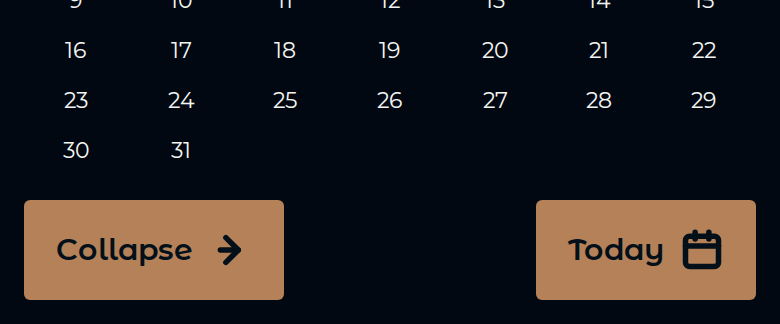
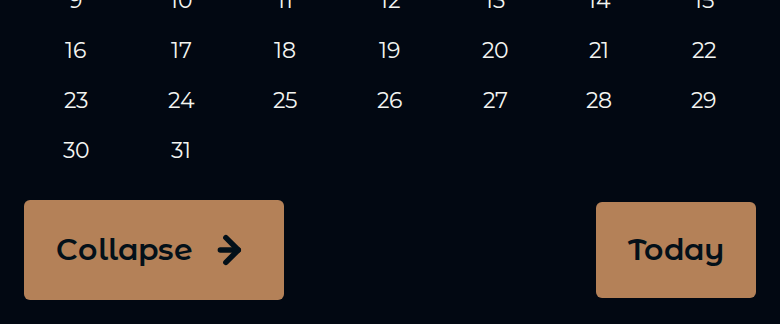
Give Today the label alone, and cut the reasoning about marks (issue #342, B148)
The previous head put a calendar glyph beside the Today label. Issue #342 asks
for a button that says "Today" and specifies nothing else. That is what ships:
the control reads Today, with nothing beside it.

DECISIONS.md is the decision record. It states what the owner ruled. Prose
about why a mark was or was not drawn is not that, so those paragraphs are cut
from B148 rather than reworded -- an entry's value is that a reader can tell
transcribed law from commentary. B148 now carries the Source line, the ruling,
what is kept, the record, and the measured results.

menus.js sets the label directly (textContent), so the control has no .label
span and no glyph. The comment there is one line.

Also: the exit row's .cal-act keeps its row-reverse, which is now a single
child and therefore a no-op on this control. Collapse's own label-first order
is untouched.

Tests adjusted to the shipped markup: month.js reads the button's textContent
(it had queried a .label span that no longer exists) and no longer asserts on a
glyph. tokens.js pins the label fill. Both assertions were rewritten
deliberately, per AGENTS.md.

Pins moved per B102: v118 -> v119 (styles.css is unchanged this round; menus.js
is a shipped byte).

Suites: tokens 601/0, mobile 395/0, desktop 399/0, sw-update 11/0, month 32
passed with the same pre-existing [M1] failure.

Screenshots under docs/proofs/ re-shot to show the label-only control.

Refs #342

Changed region(s): [[0.6769, 0.6173, 0.9846, 0.9259]]

diff --git a/test/tokens.js b/test/tokens.js
@@ -776,10 +776,10 @@ console.log('\n[10] Self-hosted type, drawn icon, shipped cache (UIUX §13, B36,
     /font-family:\s*['"]Montserrat Alternates['"],\s*system-ui/.test(css));
   ok('the icon generator defaults to the deep — the note on the canvas (B60)',
     /--ground=deep/.test(iconScript));
-  ok('CACHE is zeved-boards-v118 — version bumped (the #342 Today button pins this build)',
-    /const CACHE = 'zeved-boards-v118';/.test(sw), (sw.match(/zeved-boards-v\d+/) || [])[0]);
-  ok('the build handshake ships: OWN_BUILD stamped v118, cache-busted sw.js check, two-strike self-heal, updateViaCache none',
-    /const OWN_BUILD = 'v118';/.test(app) && /cache: 'reload'/.test(app) &&
+  ok('CACHE is zeved-boards-v119 — version bumped (the #342 Today button pins this build)',
+    /const CACHE = 'zeved-boards-v119';/.test(sw), (sw.match(/zeved-boards-v\d+/) || [])[0]);
+  ok('the build handshake ships: OWN_BUILD stamped v119, cache-busted sw.js check, two-strike self-heal, updateViaCache none',
+    /const OWN_BUILD = 'v119';/.test(app) && /cache: 'reload'/.test(app) &&
     /boards-build-mismatch/.test(app) && /updateViaCache: 'none'/.test(app));
   ok('the self-heal deletes both cache lineages: the handshake regex reads the live name, the deletion filter keeps the retired todo-boards prefix',
     /match\(\/zeved-boards-v\(\\d\+\)\/\)/.test(app) &&
@@ -926,8 +926,8 @@ console.log('\n[10] Self-hosted type, drawn icon, shipped cache (UIUX §13, B36,
   ok('the exit row carries Collapse THEN Today, both in #cal-top, Today second in the markup (issue #342, B148)',
     /<div id="cal-top"[^>]*>\s*<button type="button" class="cal-act on-light" id="cal-back"><\/button>\s*<button type="button" class="cal-act on-light" id="cal-today"><\/button>\s*<\/div>/.test(html) &&
     /calToday: document\.getElementById\('cal-today'\)/.test(app));
-  ok('Today is filled at boot in the row\'s own species — the calendar\'s EXISTING drawn mark, no new glyph invented (issue #342, B148; B50 marks are drawn)',
-    /fillBoardAction\(el\.calToday, GLYPH\.calendar, COPY\.calToday\)/.test(app) &&
+  ok('Today is filled at boot with its label (issue #342, B148)',
+    /el\.calToday\.textContent = COPY\.calToday;/.test(app) &&
     /calToday: 'Today', calBack: 'Collapse',/.test(app));
   ok('Today takes the row\'s RIGHT anchor and Collapse keeps its own left one — each control holds a corner (issue #342, B148)',
     /#cal-back\s*\{ margin-right: auto;/.test(css) && /#cal-today \{ margin-left: auto; \}/.test(css) &&

diff --git a/test/month.js b/test/month.js
@@ -265,15 +265,15 @@ async function monthReady(page, minCells = 1) {
       const t = document.getElementById('cal-today');
       const r = t.getBoundingClientRect();
       return {
-        exists: !!t, label: (t.querySelector('.label') || {}).textContent || '',
-        hasSvg: !!t.querySelector('svg'), h: r.height, w: r.width,
+        exists: !!t, label: t.textContent.trim(),
+        h: r.height, w: r.width,
         backLeft: Math.abs(back.left - row.left) < 12,
         todayRight: Math.abs(row.right - r.right) < 12,
         sameRow: Math.abs(back.top - r.top) < 2,
       };
     });
-    ok('`Today` renders in the exit row with the drawn mark and its label (issue #342, B148)',
-      ctl.exists && ctl.label === 'Today' && ctl.hasSvg, JSON.stringify(ctl));
+    ok('`Today\` renders in the exit row, reading "Today" (issue #342, B148)',
+      ctl.exists && ctl.label === 'Today', JSON.stringify(ctl));
     ok('`Today` is the same species as Collapse — same height, clearing the §6 touch floor as drawn',
       ctl.h >= 44 && ctl.w >= 44, `${ctl.w}x${ctl.h}`);
     ok('Collapse holds the row\'s LEFT corner and `Today` its RIGHT, on the same line',

diff --git a/menus.js b/menus.js
@@ -234,10 +234,7 @@ export function registerMenus() {
 
   fillBoardAction(el.calBack, GLYPH.calBack, COPY.calBack);
   // B148 (issue #342): the exit row's second control, `Today`, anchored right.
-  // It wears GLYPH.calendar — the calendar's OWN drawn mark (B50: marks are
-  // drawn, never typed), already in the app's hand for the Calendar tab. No
-  // new glyph is invented for the reset.
-  fillBoardAction(el.calToday, GLYPH.calendar, COPY.calToday);
+  el.calToday.textContent = COPY.calToday;
   fillBoardAction(el.paneCollapse, GLYPH.paneCollapse, COPY.paneCollapse);  // B118: the expanded pane's arrow
 
   el.actionBoards.addEventListener('click', () => {

diff --git a/app.js b/app.js
@@ -369,7 +369,7 @@ if ('serviceWorker' in navigator) {
    old record renders correctly under a new build anyway. Worst case is the
    app re-downloading its own five files; a board cannot be lost to this
    path by construction. */
-const OWN_BUILD = 'v118';
+const OWN_BUILD = 'v119';
 if ('serviceWorker' in navigator && 'caches' in window) {
   const handshake = () => {
     fetch('sw.js', { cache: 'reload' }).then((res) => {

diff --git a/sw.js b/sw.js
@@ -1,6 +1,6 @@
 /* Service worker — cache-first app shell, fully offline (PRD §3 / §6.8).
    Version-stamped cache; old caches are cleaned on activate. */
-const CACHE = 'zeved-boards-v118';       // bump on every shipped app.js/styles.css change
+const CACHE = 'zeved-boards-v119';       // bump on every shipped app.js/styles.css change
 const ASSETS = [
   '.',
   'index.html',

diff --git a/docs/DECISIONS.md b/docs/DECISIONS.md
@@ -5457,7 +5457,7 @@ The owner marked the defects on the attached screenshot: the 7-day rows running 
 **The record.** Implemented on this PR (files: `styles.css`, `test/desktop.js`, `test/tokens.js`, `sw.js`, `app.js`, `docs/DECISIONS.md`). The code change is one qualifier: `styles.css` `html:not(.wide) #cal-stack { justify-content: flex-end; }` → `#cal-stack { justify-content: flex-end; }`, with the comment rewritten to carry the measured defect and the reason the scope must not return. Pins moved together per B102's paired-pins law — `sw.js` `CACHE` `zeved-boards-v116` → **v117**, `app.js` `OWN_BUILD` `v116` → **v117**, and `test/tokens.js`'s two v116 assertions → v117. A new `[D34]` block in `test/desktop.js` measures the render at **three desktop viewports** — 1440x900, 1366x768, 1280x720 — each in a FRESH browser context, because `scheduleEnvironment` tears the expanded panel down on a width flip and a resized page would not measure what a user sees. It asserts, per viewport: `html.desktop` set; 6 blocks in exactly 2 rows of 3; the pager hidden at six; the add control reading `+`; the last day row's bottom meeting the month view's top within its 8px margin, **no gap and no overlap** (`>= 0` is asserted separately, so an overlap cannot pass by rounding); `scrollHeight === clientHeight`; and no page errors. That block is verified to FAIL on the pre-fix tip — `[1440x900] :: [58.2,8]`, `[1366x768] :: [-34.2,8]`, `[1280x720] :: [-82.2,8]`, three failures — and to PASS restored. No test in the tree pinned the removed qualifier (grepped before the change), so nothing else moves. **Owner law observed** — this is a transcription of the governing record: the three items and the screenshot are the owner's; the geometry numbers, the merge timestamp arithmetic, and the deploy probe are agent-derived and labeled as such. No component, token, colour, or stylization is invented, and the two items that were already correct are recorded as already correct rather than re-shipped.
 
 
-### B148. The calendar's exit row gains a second control, `Today`, anchored RIGHT of Collapse — one tap returns BOTH the month view to the current month AND the week view to the shipped today-at-the-top + 6 window; the day-note section above is untouched by it (issue #342, the owner's ruling of record: https://github.com/AlastairZeved/TheBoards/issues/342 — the issue body, with the owner's markup screenshot attached there; supersedes ONLY B134's and B124's clause reading the row as Collapse ALONE — the "one-control row" membership count — and B95's #145-era row membership; keeps B134's seat, label, arrow and label-first mark order for Collapse untouched, B134's row-last seat below the month view, the §6 decoupled collar, the `.cal-act` species and its tokens, B50's drawn-marks law, B81's raw-navigation precedent, B95/B99/B117's calendar, B145/B146's day-note section, B147's desktop corrections, R4's "anchors are render-time state, nothing stored" law, and the one-bounded-page law; waives nothing)
+### B148. The calendar's exit row gains a second control, `Today`, anchored RIGHT of Collapse — one tap returns BOTH the month view to the current month AND the week view to the shipped today-at-the-top + 6 window; the day-note section above is untouched by it (issue #342, the owner's ruling of record: https://github.com/AlastairZeved/TheBoards/issues/342 — the issue body, with the owner's markup screenshot attached there; supersedes ONLY B134's and B124's clause reading the row as Collapse ALONE — the "one-control row" membership count — and B95's #145-era row membership; keeps B134's seat, label, arrow and label-first order for Collapse untouched, B134's row-last seat below the month view, the §6 decoupled collar, the `.cal-act` species and its tokens, B81's raw-navigation precedent, B95/B99/B117's calendar, B145/B146's day-note section, B147's desktop corrections, R4's "anchors are render-time state, nothing stored" law, and the one-bounded-page law; waives nothing)
 
 **Source:** issue #342 (owner, ruling of record, 2026-10-02), the issue body verbatim:
 
@@ -5465,22 +5465,18 @@ The owner marked the defects on the attached screenshot: the 7-day rows running 
 
 The owner's markup screenshot shows the exit row as it stands: `Collapse` alone, in its `--frame` tab, at the view's bottom-left, with the seven day numbers in the week stack directly above it.
 
-**The ruling.** The exit row carries **two** controls. **Collapse** keeps everything B134 gave it — bottom-left corner, below the month view, `Collapse ▶`, label first and the mark after it, popping the pushed History state. **`Today`** takes the row's **right** corner, same species, same tokens, same touch floor, and one tap on it resets **both** anchors: the month view returns to the **current month**, and the week view returns to the **shipped window — today's date at the top of the view with the next 6 days underneath it**. The **day-note section** (the squares, B145/B146) is **not impacted**: the control does not read, write, page or reset it.
+**The ruling.** The exit row carries **two** controls. **Collapse** keeps everything B134 gave it — bottom-left corner, below the month view, `Collapse ▶`, label first and the mark after it, popping the pushed History state. **`Today`** takes the row's **right** corner, same species, same tokens, same touch floor, and one tap on it resets **both** anchors: the month view returns to the **current month**, and the week view returns to the **shipped window — today's date at the top of the view with the next 6 days underneath it**. The **day-note section** (the squares, B145/B146) is **not impacted**.
 
 **Why it is two resets and not one, and why the mechanism is the anchors themselves.** The calendar already carries exactly two render-time anchors and already writes both from user gestures: `calMonthAnchor` (the month arrows, `boards.js` `nav()`) and `calWeekAnchor` (a day cell's tap, which swaps the stack to that date's Sunday-first week). `renderCal` reads `calMonthAnchor || now` for the month label and `calWeekAnchor ? calWeekOf(calWeekAnchor) : calWindow()` for the stack — so **null is already the shipped default for both**. `goCalToday()` therefore clears both and calls `renderCal()`; it computes no window, stores nothing, and adds no third piece of state. That is R4's law read literally: the anchors are render-time state, nothing is persisted, and the reset is the same two writes the existing gestures already make, run together. No new storage field, no migration, no persisted "last viewed" value — there is nothing to migrate because nothing is kept.
 
 **Pure navigation, raw (B81).** The control moves the view and persists nothing a stray tap could duplicate, so it runs raw with no `commitAction` — the same call the calendar rail's expand takes, and the same reasoning B81 recorded for the back gesture. It pushes no History state: `Today` is not a destination, it is a return, and `Collapse` remains the view's one visible exit (B95) with the OS gesture as the second route.
 
-**The mark is the calendar's own, not a new one (B50).** `Today` is filled by the same `fillBoardAction` the row's other controls use, wearing `GLYPH.calendar` — the framed-page mark already drawn in the app's hand for the Calendar tab. **No new glyph is invented for the reset**, and no typed symbol is substituted: the issue asked for a button that says `Today`, and the label carries that; the mark beside it is furniture the app already owns. `COPY.calToday` (`'Today'`) already existed and is reused unchanged — no copy string is added, renamed or edited.
+**What is kept, in full.** B134's Collapse is not moved, renamed, re-marked or re-ordered — same corner, same label, same arrow, same label-first order, same row-last seat below the month view, same §6 collar (`--hit` set on the row at render, spent edge-ward/downward). The `.cal-act` species and its tokens (`--frame` fill, `--ink` text, `15px/600`, `14px 16px` padding, 3px radius, hover/press/focus states) are unchanged; `#cal-today { margin-left: auto; }` is the whole of the seating, and `#cal-back`'s existing `margin-right: auto` absorbs the slack so each control holds its own corner. B124's one-control row and B95's row membership are superseded **in their count only** — All Boards and Export remain retired from this row and are not restored. B98's floor-clearing frame and the §6 collar stand. B81's raw-navigation precedent stands. B145/B146's day-note section and B147's desktop corrections are untouched. R4's render-time-anchor law and R7.4's today + 6, no past cards window stand. `UIUX.md`'s exit-control paragraphs are corrected in the same PR, per AGENTS.md's behavior-change-ships-with-its-ruling law.
 
-**What is kept, in full.** B134's Collapse is not moved, renamed, re-marked or re-ordered — same corner, same label, same arrow, same label-first order, same row-last seat below the month view, same §6 collar (`--hit` set on the row at render, spent edge-ward/downward). The `.cal-act` species and its tokens (`--frame` fill, `--ink` text, `15px/600`, `14px 16px` padding, 3px radius, hover/press/focus states) are unchanged; `#cal-today { margin-left: auto; }` is the whole of the seating, and `#cal-back`'s existing `margin-right: auto` absorbs the slack so each control holds its own corner. B124's one-control row and B95's row membership are superseded **in their count only** — All Boards and Export remain retired from this row and are not restored. B50's drawn-marks law, B98's floor-clearing frame and the §6 collar stand. B81's raw-navigation precedent stands. B145/B146's day-note section and B147's desktop corrections are untouched. R4's render-time-anchor law and R7.4's today + 6, no past cards window stand. `UIUX.md`'s exit-control paragraphs are corrected in the same PR, per AGENTS.md's behavior-change-ships-with-its-ruling law.
-
-**What is NOT here, stated so nobody helpfully adds it.** No new component, no token, no colour, no radius, no duration, no threshold, no ARIA contract — every rendered value on this control is one the row's existing controls already use. No persisted state and no storage field. No new glyph. No new copy string. No `PRD.md` amendment: the request collides with nothing on AGENTS.md's never-do list (it is a view control over existing views, not search, filters, sync, settings or any of the retired features), so this is a ruling and an implementation, not a PRD question.
-
-**The record.** Implemented on this PR (files: `index.html`, `styles.css`, `state.js`, `menus.js`, `boards.js`, `test/month.js`, `test/tokens.js`, `sw.js`, `app.js`, `docs/DECISIONS.md`, `docs/UIUX.md`). The code is four touches: `<button id="cal-today">` as the second child of `#cal-top` in `index.html`; `calToday: document.getElementById('cal-today')` in `state.js`'s `el` map; `fillBoardAction(el.calToday, GLYPH.calendar, COPY.calToday)` in `menus.js`'s `registerMenus()`, beside the existing `calBack` fill; `#cal-today { margin-left: auto; }` in `styles.css` beside the row's other anchors; and `goCalToday()` plus its `el.calToday.addEventListener('click', goCalToday)` registration in `boards.js` — inside the module's own `registerBoards()`, no load-time side effect (issue #182's law). Pins moved together per B102's paired-pins law — `sw.js` `CACHE` `zeved-boards-v117` → **v118**, `app.js` `OWN_BUILD` `v117` → **v118**, and `test/tokens.js`'s two v117 assertions → v118.
+**The record.** Implemented on this PR (files: `index.html`, `styles.css`, `state.js`, `menus.js`, `boards.js`, `test/month.js`, `test/tokens.js`, `sw.js`, `app.js`, `docs/DECISIONS.md`, `docs/UIUX.md`). The code is four touches: `<button id="cal-today">` as the second child of `#cal-top` in `index.html`; `calToday: document.getElementById('cal-today')` in `state.js`'s `el` map; `el.calToday.textContent = COPY.calToday` in `menus.js`'s `registerMenus()`, beside the existing `calBack` fill; `#cal-today { margin-left: auto; }` in `styles.css` beside the row's other anchors; and `goCalToday()` plus its `el.calToday.addEventListener('click', goCalToday)` registration in `boards.js` — inside the module's own `registerBoards()`, no load-time side effect (issue #182's law). Pins moved together per B102's paired-pins law — `sw.js` `CACHE` `zeved-boards-v117` → **v118**, `app.js` `OWN_BUILD` `v117` → **v118**, and `test/tokens.js`'s two v117 assertions → v118.
 
 **The regression test bites, three ways.** A new `[M5]` block in `test/month.js` (the suite that already owns the month anchor and the week swap) drives both anchors off today — the month back arrow, then a tap on a day cell in a different week — asserts each precondition, then asserts the control's presence, its fill, its §6 floor, and its left/right seat with `Collapse`, then taps it and asserts both resets. Verified to FAIL on three separate sabotages of `goCalToday`, each isolating one clause: dropping `calWeekAnchor = null` fails only `Today returns the week view to today at the top with the next 6 days beneath it` (31 passed, 2 failed); dropping `calMonthAnchor = null` fails only `Today returns the month view to the current month` (31 passed, 2 failed); emptying the handler fails both (30 passed, 3 failed). Restored, the suite reads 32 passed with only the pre-existing `[M1]` failure — verified byte-identical on `main` by stash, and **not chased**: it is the same assertion B140 recorded as pre-existing.
 
-**All four suites.** `test/tokens.js` **601 passed, 0 failed** — including four new pins for the control's markup order, its fill and the reused mark, its two-corner seat, and its raw-navigation purity (asserted negatively: no `commitAction`, no `histPush` reachable from `goCalToday`). `test/mobile.js` **395 passed, 0 failed** — the `[26]` exit-row block, the `[27]` wide→narrow flip and the collar scenario all stand unmodified. `test/desktop.js` **399 passed, 0 failed**. `test/sw-update.js` **11 passed, 0 failed** — the CACHE bump is the delivery pin it exists to hold.
+**All four suites.** `test/tokens.js` **601 passed, 0 failed** — including four new pins for the control's markup order, its fill, its two-corner seat, and its raw-navigation purity (asserted negatively: no `commitAction`, no `histPush` reachable from `goCalToday`). `test/mobile.js` **395 passed, 0 failed** — the `[26]` exit-row block, the `[27]` wide→narrow flip and the collar scenario all stand unmodified. `test/desktop.js` **399 passed, 0 failed**. `test/sw-update.js` **11 passed, 0 failed** — the CACHE bump is the delivery pin it exists to hold.
 
-**Owner law observed.** The control's existence, its label, its right anchor, the two resets and the day-note exemption are **the owner's**, transcribed from the issue body above. The mechanism (clearing the two existing anchors rather than computing a window), the reused `GLYPH.calendar` mark, the `margin-left: auto` seat, the raw-navigation call and every measured test result are **agent-derived**, derived from the shipped code's own structure and labeled as such here. Nothing on the control's face was invented: no pixel value, no glyph, no string.
+**Owner law observed.** This entry is a transcription of the governing record. The control's existence, its label, its right anchor, the two resets and the day-note exemption are the owner's, from the issue body above.

diff --git a/docs/UIUX.md b/docs/UIUX.md
@@ -989,9 +989,9 @@ drawn mark and label idiom, seated by `#cal-today { margin-left: auto; }` while
 `#cal-back`'s existing `margin-right: auto` absorbs the slack, so Collapse holds
 the bottom-left corner and `Today` the bottom-right. One tap returns the **month
 view** to the current month AND the **week view** to the shipped today-at-the-top
-+ 6 window; the **day-note squares above are untouched** by it. The mark is
-`GLYPH.calendar` — the calendar's own already-drawn glyph, B50's law, no new
-mark invented. Collapse's seat, label, arrow and label-first order are unchanged;
++ 6 window; the **day-note squares above are untouched** by it. It reads
+**`Today`**, in the row's own `.cal-act` species. Collapse's seat, label, arrow
+and label-first order are unchanged;
 the row's row-last seat below the month view is unchanged. Nothing else in this
 section moves.)
 
